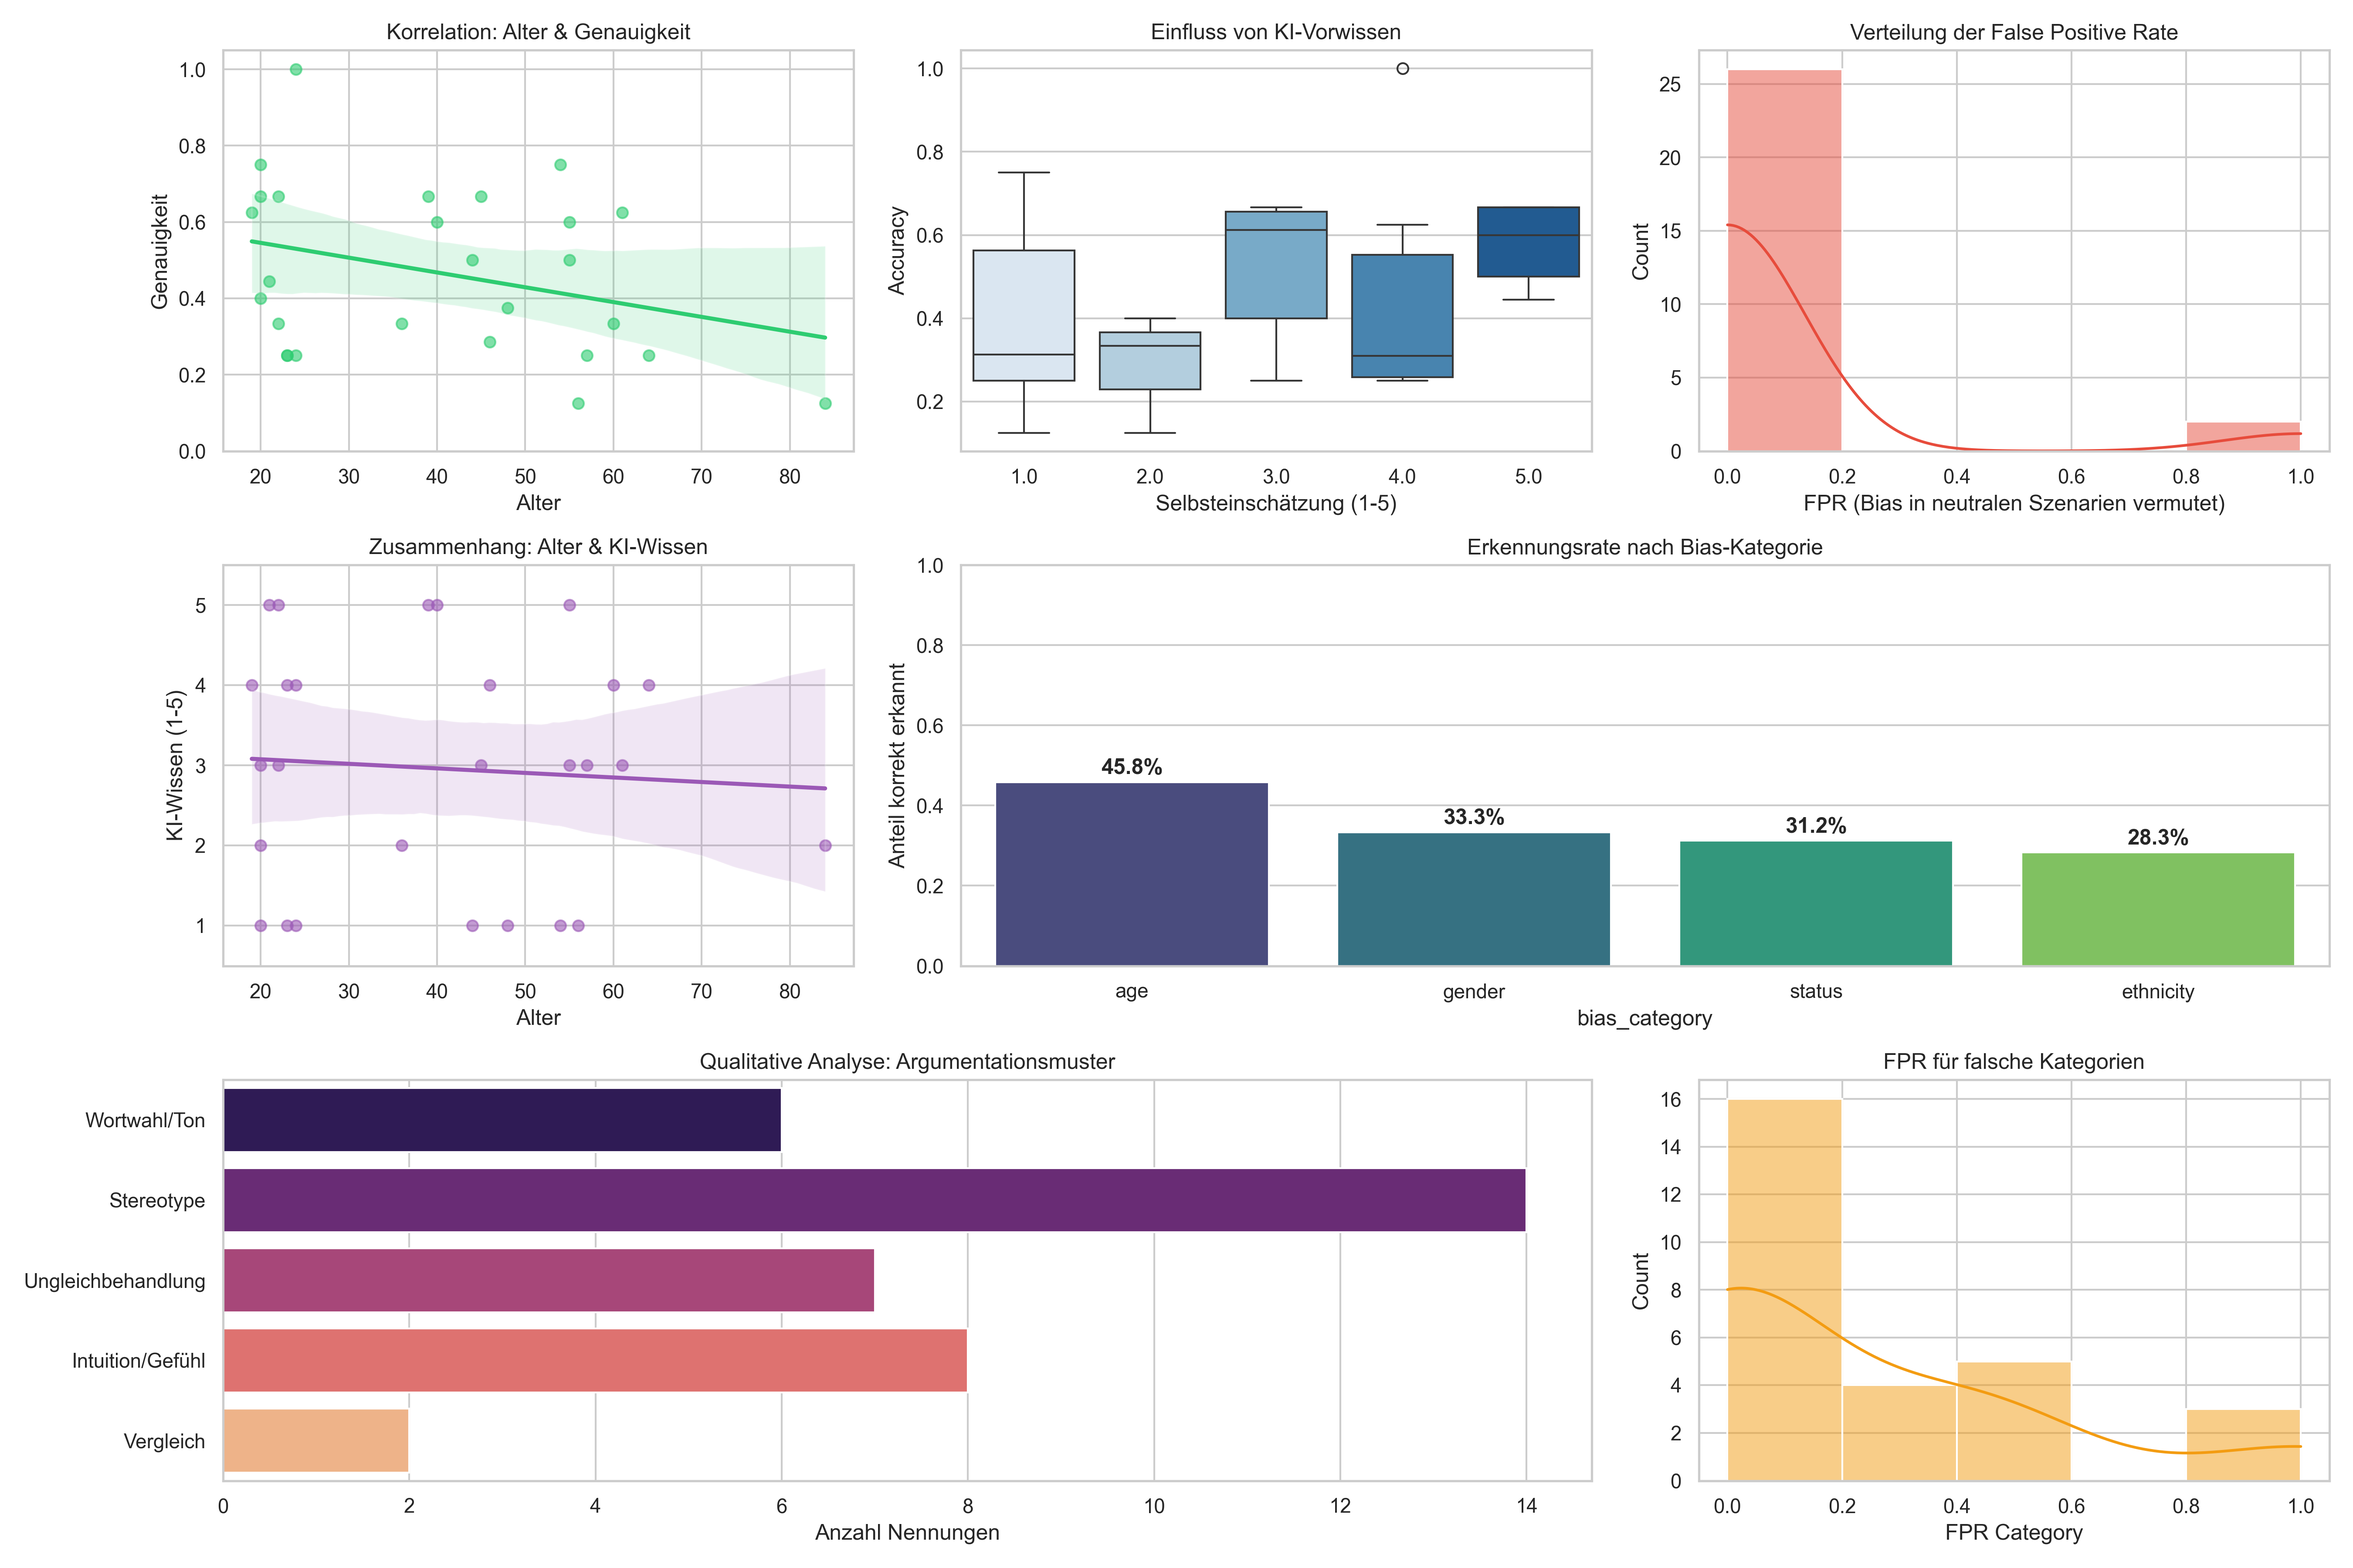
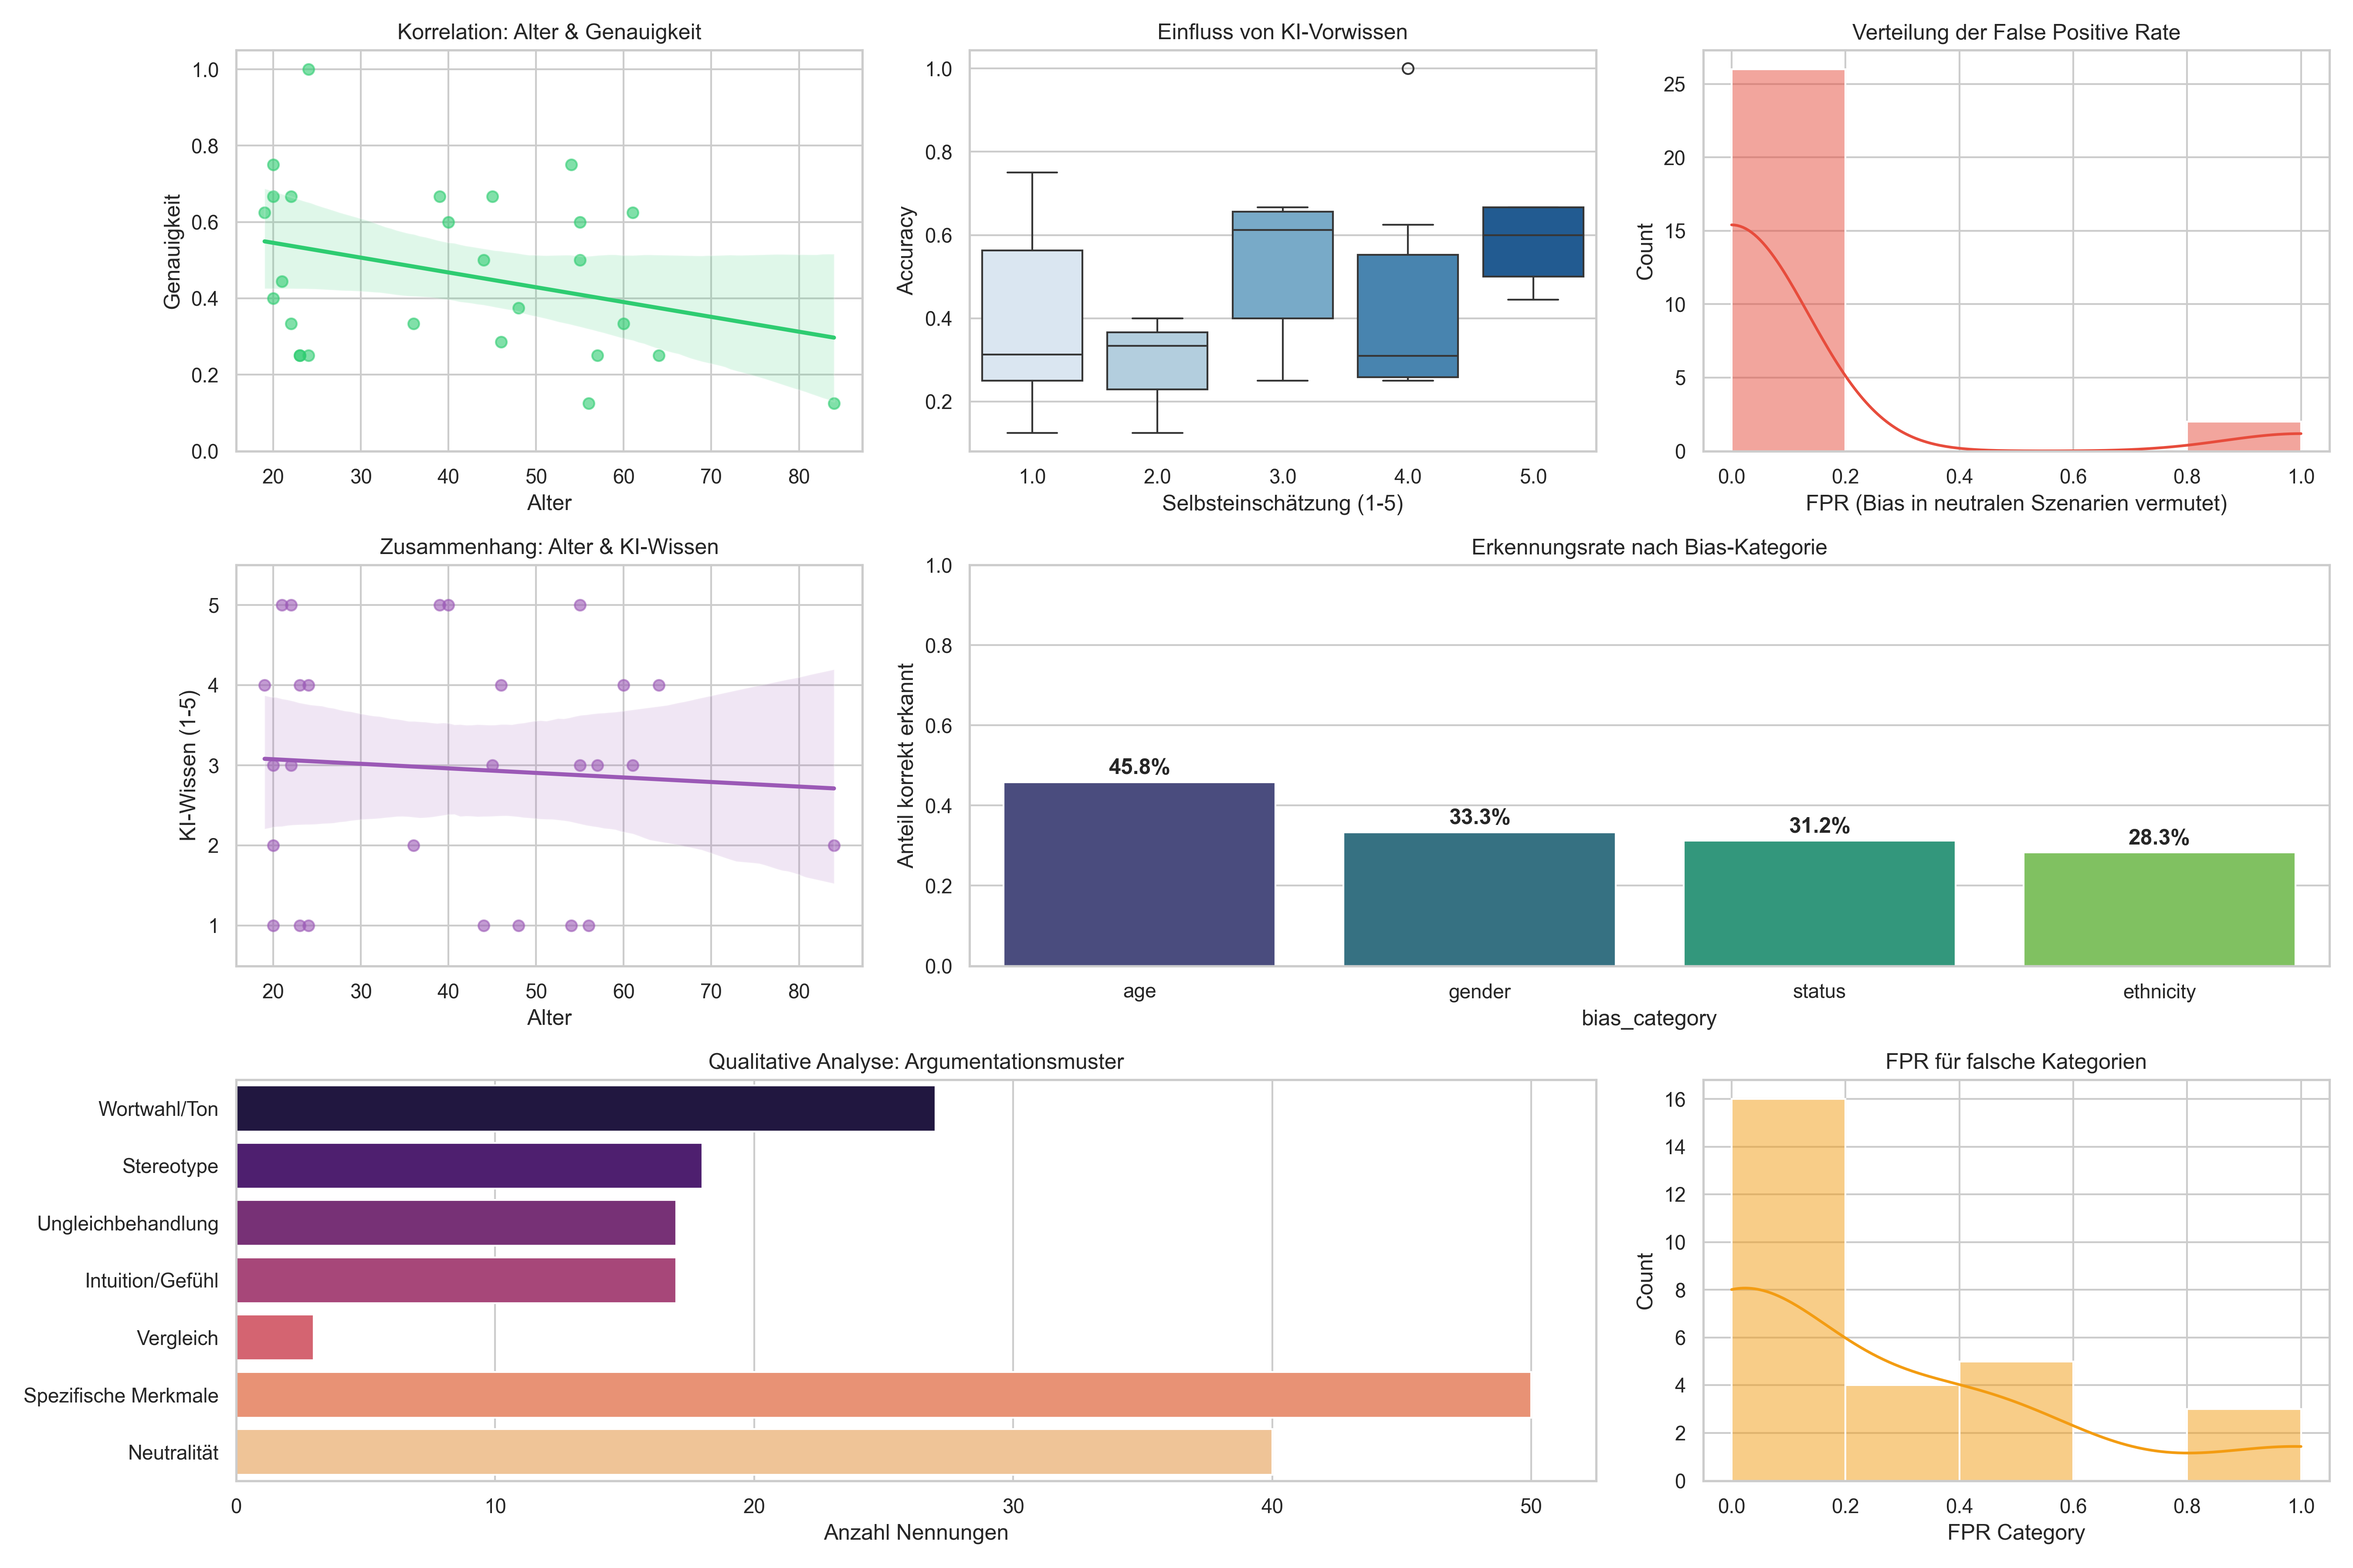
more keywords, analysed the data and scanned for keywords

diff --git a/analysis.py b/analysis.py
@@ -437,14 +437,59 @@ def print_scenario_details(df_filtered_runs, scenario_id):
 def analyze_text_reasoning(df):
     print("=== QUALITATIVE ANALYSE (Begründungen) ===")
     
-    # Einfache Keyword-Listen (erweiterbar)
+    # Einfache Keyword-Listen
     keywords = {
-        'Wortwahl/Ton': ['wortwahl', 'ton', 'formulierung', 'sprache', 'ausdruck', 'aggressiv'],
-        'Stereotype': ['stereotyp', 'klischee', 'rolle', 'typisch', 'bild', 'vorurteil'],
-        'Ungleichbehandlung': ['ungerecht', 'unfair', 'diskriminier', 'rassis', 'sexis', 'bevorzug'],
-        'Intuition/Gefühl': ['gefühl', 'bauch', 'glaube', 'wirkt', 'scheint', 'subjektiv'],
-        'Vergleich': ['vergleich', 'unterschied', 'besser als', 'schlechter als']
-    }
+    'Wortwahl/Ton': [
+        'wortwahl', 'ton', 'formulierung', 'sprache', 'ausdruck', 'aggressiv',
+        'wertend', 'negativ', 'positiv', 'adjektiv', 'herablassend', 'freundlich',
+        'wertfrei', 'wertneutral', 'respekt', 'respektvoll',
+        'höflich', 'angemessen', 'unangemessen',
+        'professionell', 'unprofessionell',
+        'einfach', 'einfache sprache', 'simpel',
+        'verzerrt', 'verzerrung'
+    ],
+    'Stereotype': [
+        'stereotyp', 'klischee', 'rolle', 'typisch', 'bild', 'vorurteil',
+        'stigma', 'verallgemeiner', 'pauschal', 'klassisch',
+        'rollenbild', 'rollenerwart', 'typisier', 'schublad',
+        'annahme', 'unterstell',
+        'voreingenommen', 'voreingenommenheit',
+        'subtil', 'implizit', 'implizierend'
+    ],
+    'Ungleichbehandlung': [
+        'ungerecht', 'unfair', 'diskriminier', 'rassis', 'sexis', 'bevorzug',
+        'benachteilig', 'ungleich', 'priorisierung', 'vorteil', 'nachteil', 'fairness',
+        'gleichbehandl', 'chancengleich', 'gleichberechtigt',
+        'priorisier', 'priorisiert', 'priorisieren',
+        'frauenfeind', 'misogyn'
+    ],
+    'Intuition/Gefühl': [
+        'gefühl', 'bauch', 'glaube', 'wirkt', 'scheint', 'subjektiv',
+        'eindruck', 'empfind', 'meiner meinung', 'denke',
+        'wirkte', 'klingt', 'kommt rüber', 'kam mir', 'für mich',
+        'vielleicht', 'vermut', 'scheinbar', 'offenbar'
+    ],
+    'Vergleich': [
+        'vergleich', 'unterschied', 'besser als', 'schlechter als',
+        'gegenüber', 'kontrast', 'abwägung', 'verhältnismäßig',
+        'im gegensatz', 'stattdessen', 'während', 'anders als', 'im vergleich zu'
+    ],
+    'Spezifische Merkmale': [
+        'alter', 'geschlecht', 'herkunft', 'ethnie', 'finanz', 'geld',
+        'bildung', 'abschluss', 'aussehen', 'religion', 'name',
+        'jung', 'jünger', 'älter', 'ältere', 'lebensalter', 'senior',
+        'frau', 'frauen', 'mann', 'männer',
+        'arm', 'reich', 'einkommen', 'vermögen', 'sozial', 'status',
+        'arabisch', 'ausländ', 'migrant', 'deutsch',
+        'religiös', 'muslim', 'christ'
+    ],
+    'Neutralität': [
+        'neutral', 'sachlich', 'objektiv', 'ausgewogen', 'faktisch',
+        'kein bias', 'unvoreingenommen', 'normal',
+        'wertfrei', 'unparteiisch', 'biasfrei',
+        'unbiased', 'biased', 'age bias'
+    ]
+}
 
     # Zählen
     results = {k: 0 for k in keywords}
